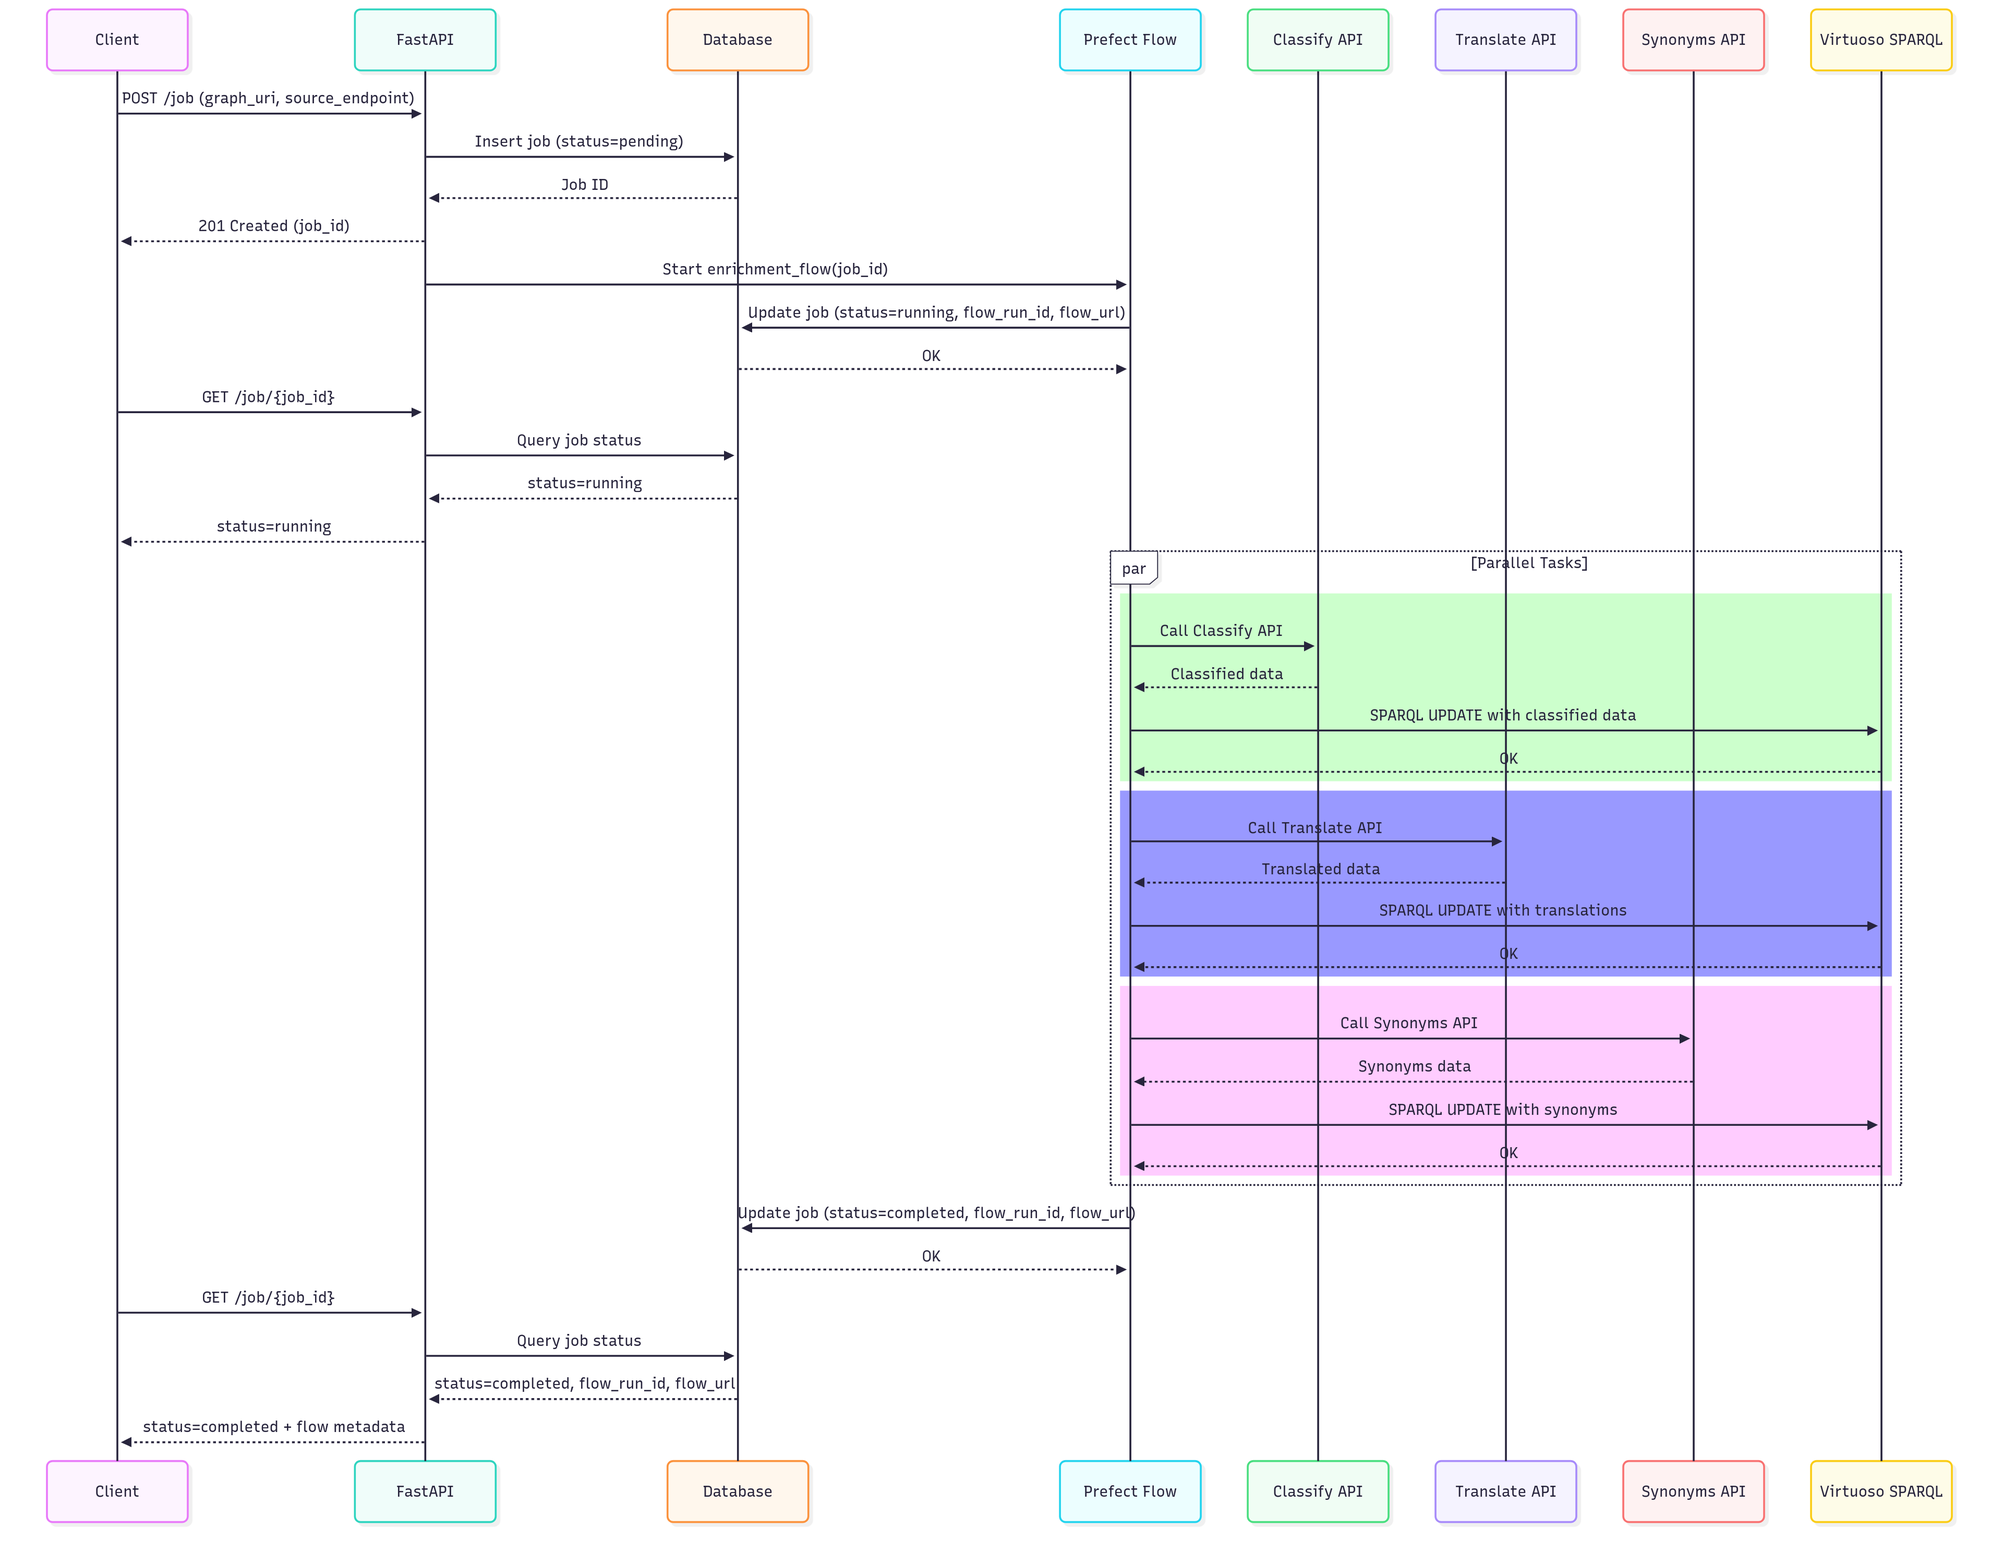
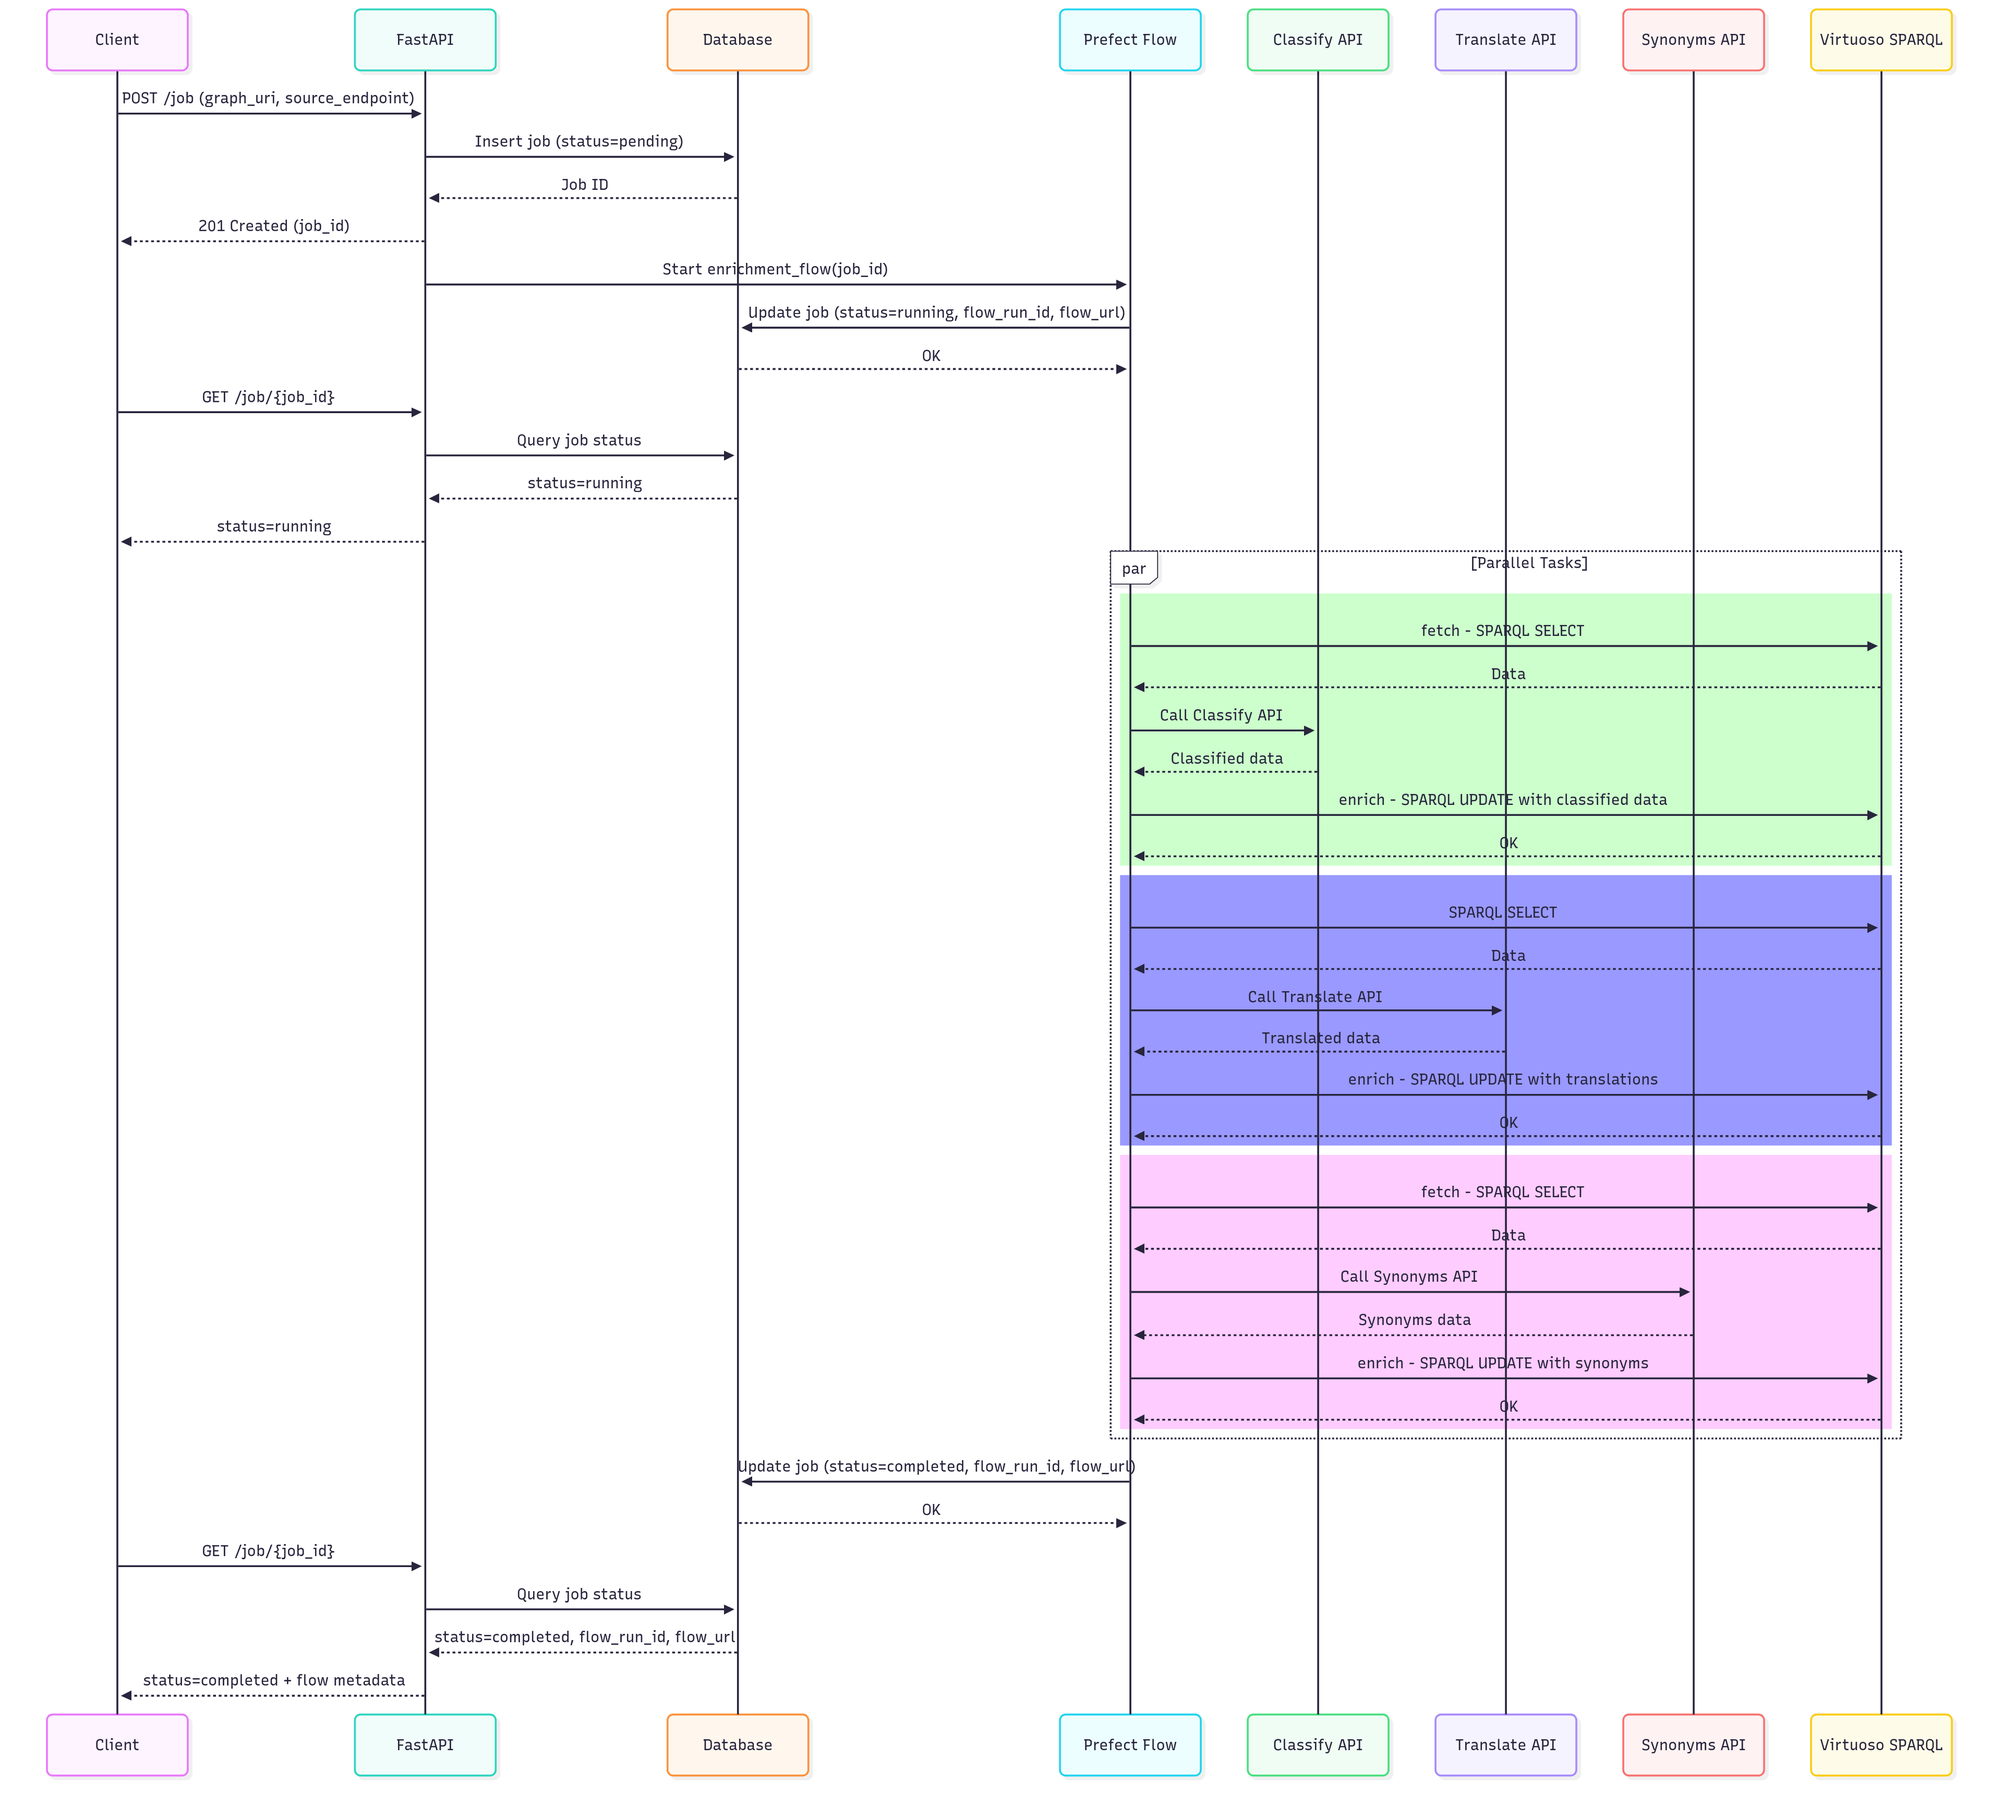
fixed diagram

diff --git a/SR-dev/enricher/doc/enricher_architecture.md b/SR-dev/enricher/doc/enricher_architecture.md
@@ -34,7 +34,7 @@ sequenceDiagram
         end
 
         rect rgb(153, 153, 255)
-            P->>V: SPARQL SELECT
+            P->>V: fetch - SPARQL SELECT
             V-->>P: Data
             P->>API2: Call Translate API
             API2-->>P: Translated data
